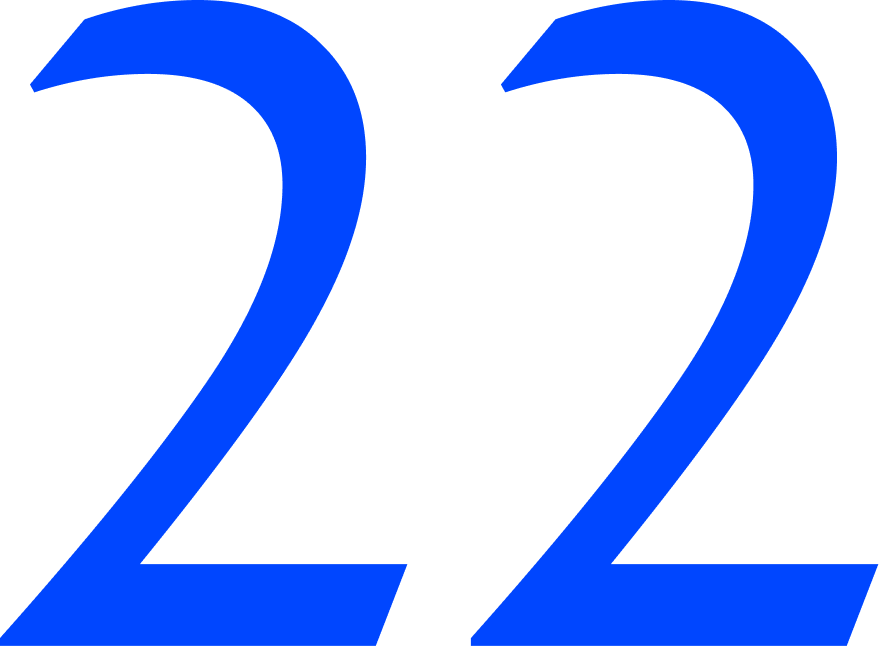
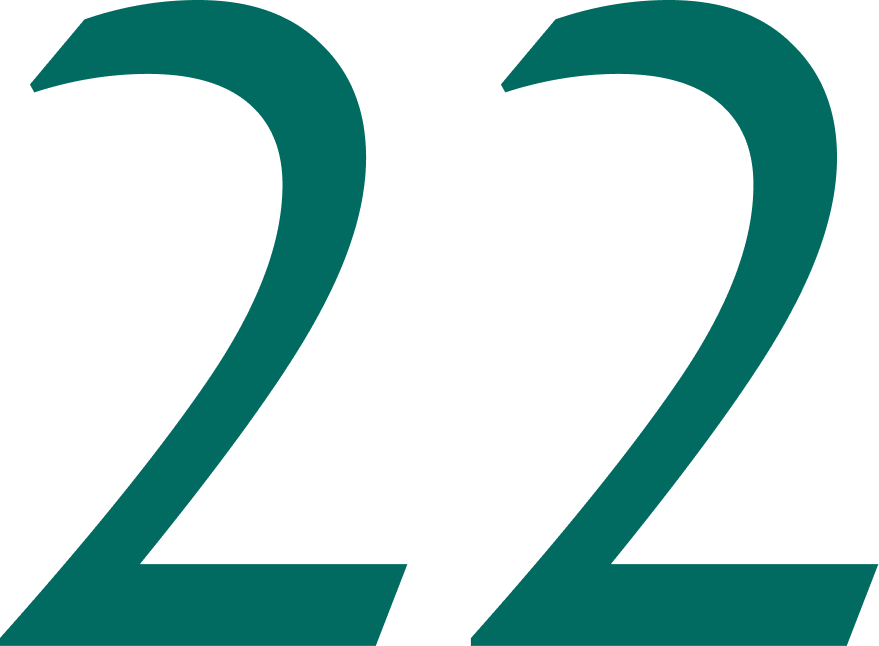
css changes

diff --git a/assets/css/style.css b/assets/css/style.css
@@ -49,7 +49,7 @@ html, body {
 }
 * {
     font-family: 'kermes-Light', 'Cairo', 'Montserrat', 'Hind Madurai', sans-serif;
-    color: #0046FF
+    color: #016B61
 }
 h1,h2,h3,h4,h5,h6 {
     margin: 0;
@@ -74,7 +74,7 @@ body {
     align-items: center;
     position: relative;
     overflow: hidden;
-    background-color: #0046FF10;
+    background-color: #016B6110;
 }
 /* Background with gap top & bottom */
 body::before {
@@ -113,12 +113,12 @@ body::before {
     width: 40px;
     height: 40px;
     /* border-radius: 50%;
-    border:#0046FF10 1px solid; */
+    border:#016B6110 1px solid; */
 }
 .logo {
     font-size: 26px;
     font-weight: 700;
-    color: #0046FF;
+    color: #016B61;
     position: relative;
     margin-top: -6px;
     font-family: 'kermes-Bold', 'Cairo', 'Montserrat', 'Hind Madurai', sans-serif;
@@ -126,24 +126,24 @@ body::before {
 .lang-toggle {
     padding: 8px 12px;
     border-radius: 6px;
-    border: 1px solid #0046FF20;
+    border: 1px solid #016B6120;
     background: white;
     cursor: pointer;
     font-weight: bold;
-    color: #0046FF;
+    color: #016B61;
     min-width: 72px;
 }
 [lang="en"] .lang-toggle {
     padding: 6px 12px 10px 12px !important
 }
 .lang-toggle:hover {
-    background: #0046FF;
+    background: #016B61;
     color: white;
-    border: 1px solid #0046FF;
+    border: 1px solid #016B61;
 }
 .lang-toggle:active {
     background: white;
-    color: #0046FF;
+    color: #016B61;
 }
 /* Coming Soon card */
 .coming-soon-card {
@@ -156,7 +156,7 @@ body::before {
     text-align: center;
     box-shadow: 0 6px 20px rgba(0,0,0,0.2);
     max-width: 440px;
-    color: #0046FF;
+    color: #016B61;
     display: flex;
     flex-direction: column;
     gap: 10px;
@@ -187,17 +187,17 @@ body::before {
     font-size: 28px;
     line-height: 37px;
     font-weight: 700;
-    color: #0046FF;
+    color: #016B61;
     margin: 0 0 24px 0;
 }
 .coming-soon-card p {
     font-size: 18px;
     line-height: 1.5;
-    color: #0046FF;
+    color: #016B61;
     margin: 0 0 10px 0;
 }
 .coming-soon-card span {
-    color: #0046FF;
+    color: #016B61;
 }
 /* Bottom audio player */
 .bottom-player {
@@ -217,7 +217,7 @@ body::before {
 
 .disclaimer {
    text-align: 
-   center; color: #0046FF; 
+   center; color: #016B61; 
    font-size: 12px !important;
    font-weight: 300;
 }

diff --git a/assets/js/script.js b/assets/js/script.js
@@ -12,7 +12,7 @@ const texts = {
         logo: 'العالم العربي الآن',
         copyright: 'العالم العربي الآن © 2025',
         title: 'الموقع قيد الإنشاء',
-        text1: 'نحن نعمل على إطلاق بوابة العالم العربي الآن قريباً.',
+        text1: 'نحن نعمل على إطلاق موقع "العالم العربي الآن" قريباً.',
         text2: 'ابقَ على اطلاع! سيتم تحديث هذا الموقع بأحدث الأخبار والمعلومات.',
         text3: 'تواصل معنا على',
         toggle: 'English',
@@ -23,7 +23,7 @@ const texts = {
         logo: 'Arab World Now',
         copyright: 'Arab World Now © 2025',
         title: 'Website Under Construction',
-        text1: 'We are working on launching Arab World Now soon.',
+        text1: 'We are working on launching "Arab World Now" Portal soon.',
         text2: 'Stay tuned! This website will be updated with the latest news and information.',
         text3: 'Contact us at',
         toggle: 'عربي',

diff --git a/index.html b/index.html
@@ -41,7 +41,7 @@
 <div class="coming-soon-card">
     <img src="/assets/images/22.png" class="card-bg-img" alt="">
     <h1 id="cardTitle">الموقع قيد الإنشاء</h1>
-    <p id="cardText1">نحن نعمل على إطلاق العالم العربي الآن قريباً.</p>
+    <p id="cardText1">نحن نعمل على إطلاق موقع "العالم العربي الآن" قريباً.</p>
     <p id="cardText2"><span>ابقَ على اطلاع!</span> سيتم تحديث هذا الموقع بأحدث الأخبار والمعلومات.</p>
     <p id="cardText3" style="margin: 0; font-size: 14px !important;"><span class="fw-light">تواصل معنا على</span> <a href="mailto:contact@arabworld.now" class="fw-semiBold">contact@arabworld.now</a></p>
 </div>
